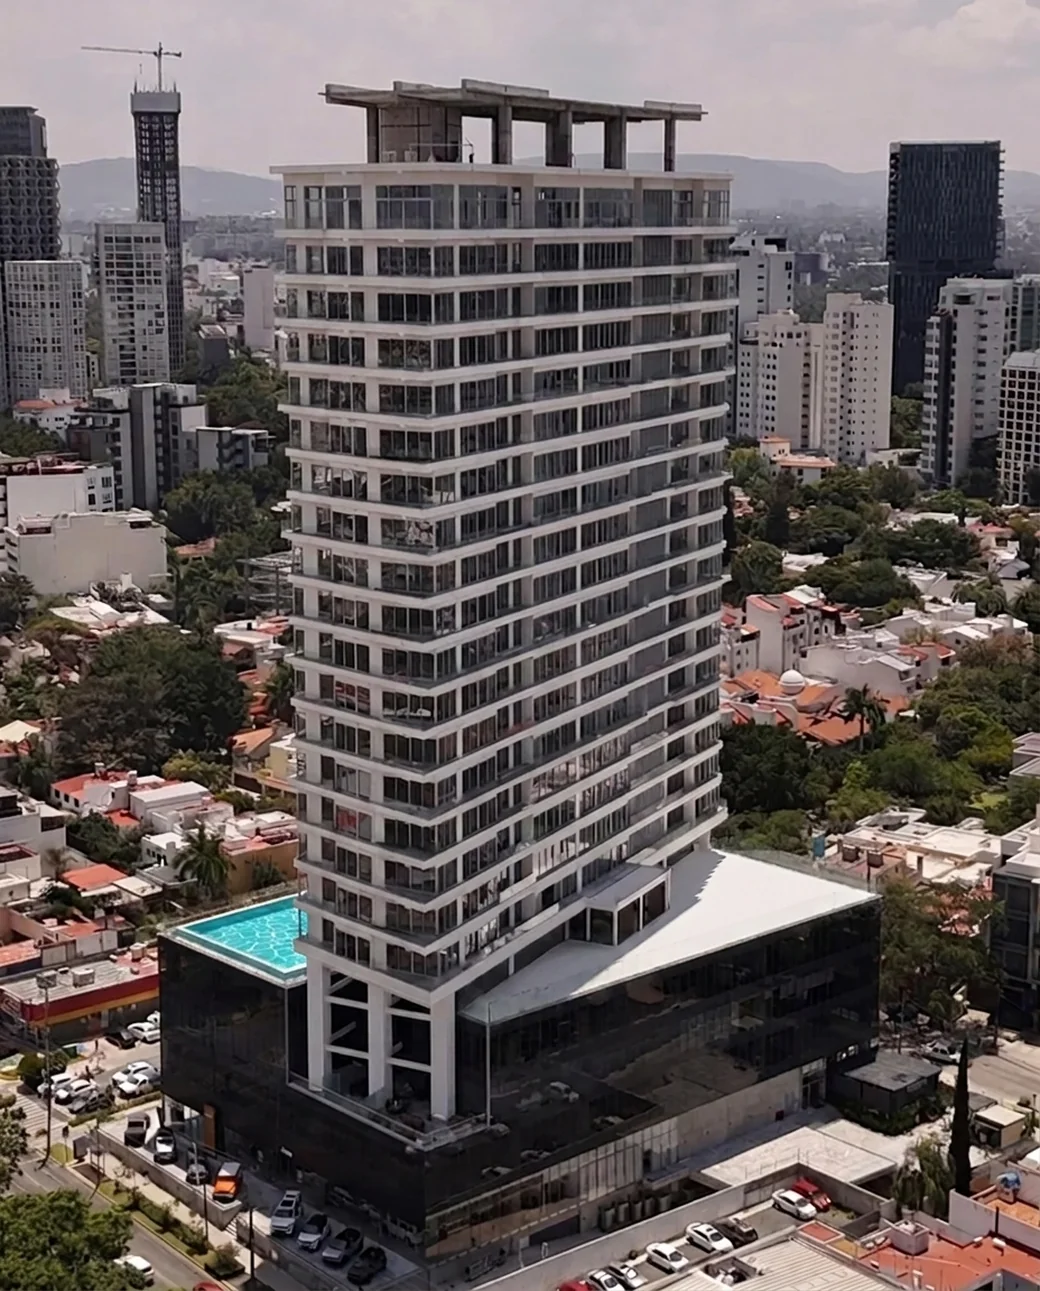
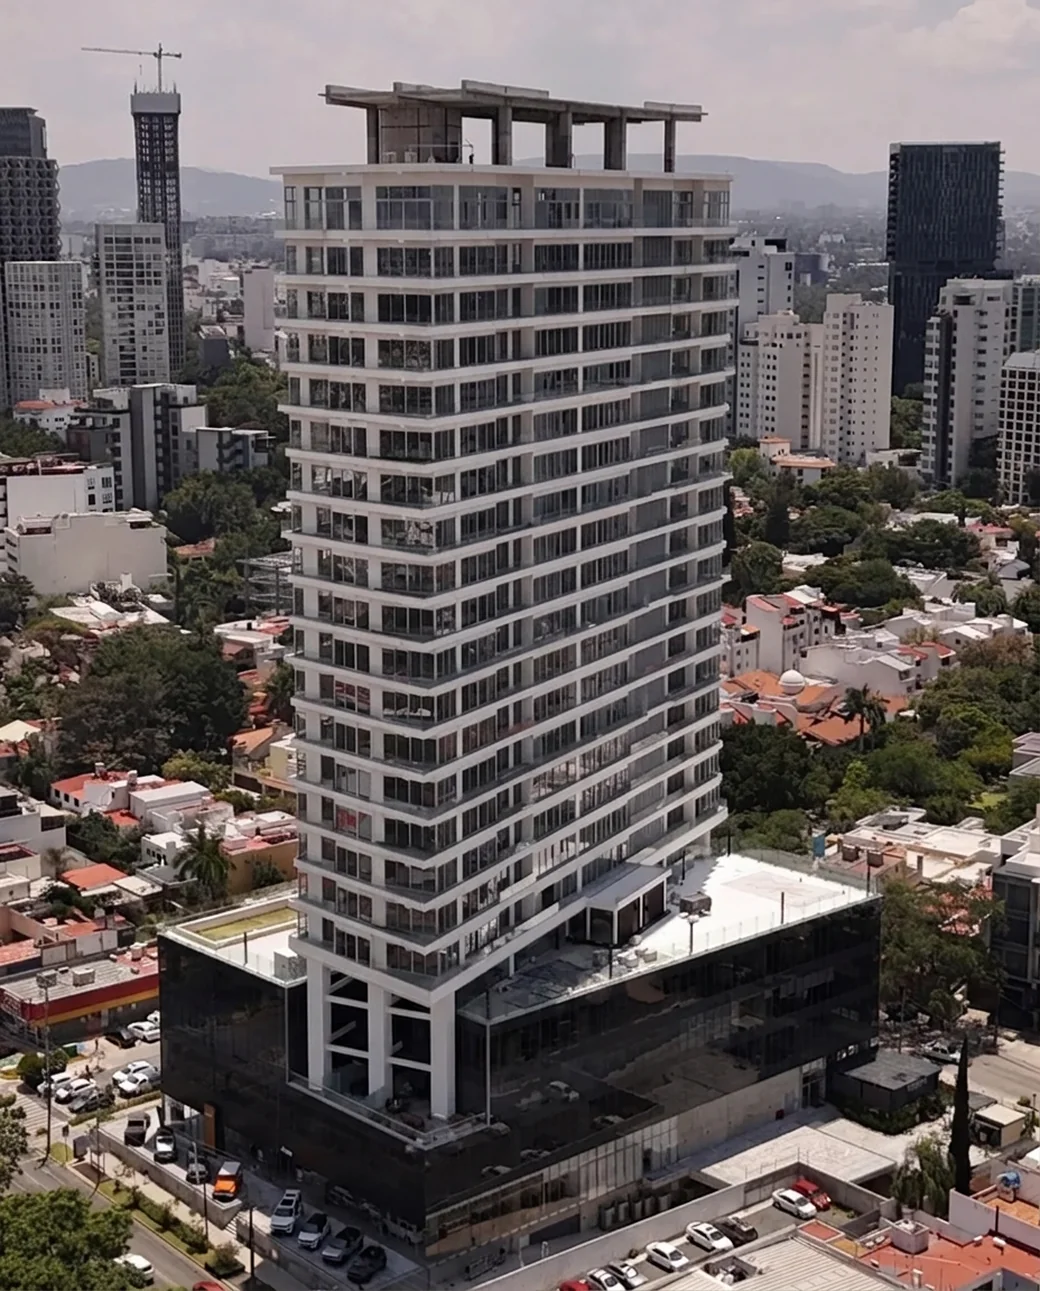
Torre: alberca vacía (estado real) con pintura limpia; cache-bust v4
Se descarta el agua generada por IA. Se usa la torre con la fachada limpia y
la alberca vacía tal como está el edificio real. Cache-bust v4.

diff --git a/lp.html b/lp.html
@@ -311,7 +311,7 @@
       </div>
     </div>
     <div class="dev__media">
-      <img src="assets/img/torre-aerea.webp?v=3" alt="Toma aérea de la torre de Essentia Country en Country Club, Guadalajara" loading="lazy" />
+      <img src="assets/img/torre-aerea.webp?v=4" alt="Toma aérea de la torre de Essentia Country en Country Club, Guadalajara" loading="lazy" />
     </div>
   </div>
 </section>
